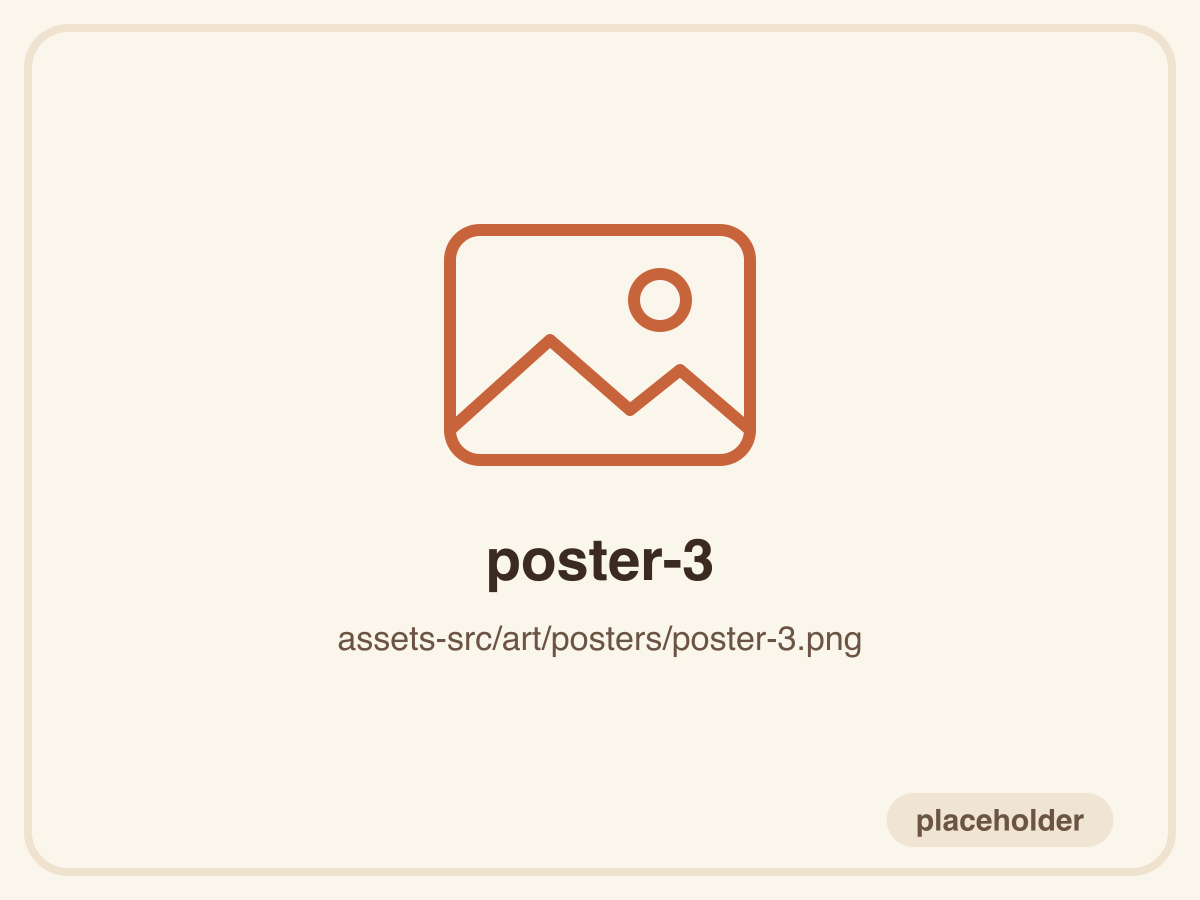
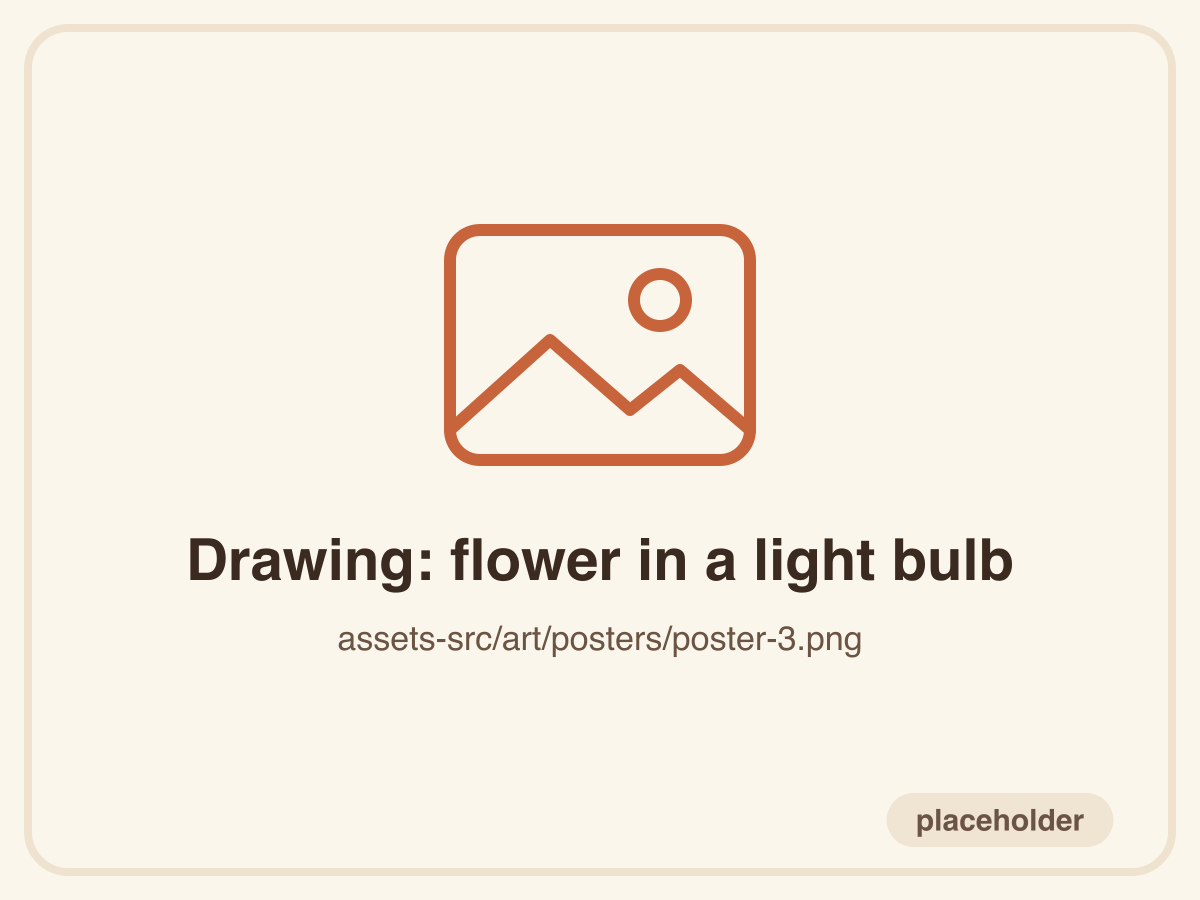
Add the owner's paintings, designs and photos
- Posters: three paintings (lemons, watercolour forest, ink flower in a
  light bulb), cropped to the artwork from the owner's phone photos; the
  4th frame's pin is disabled. Descriptive working titles and alt text;
  stories, years and materials stay PLACEHOLDER for the owner.
- Sketchbook: five graphic design projects (Bin Cosmetics ad, April
  2024 poster, Travelia brochure and magazine ad, LYRIC cover), PDFs
  rendered at 3000px; title and intro redrafted for design work.
- Shawn Mendes poster: the owner's concert photo (full, as requested).
- Fridge magnet: the owner's Sofia cathedral photo (500x400, as given).
- All files re-encoded without EXIF/XMP (no location data was present).
- Removed unused drawing/wall-poster placeholders; the lightbox e2e test
  now reads the gallery size from content.

Local QA: typecheck, lint, 41 unit tests, 56 e2e (2 device skips) pass;
close-ups checked in screenshots.

Changed region(s): [[0.1542, 0.5911, 0.8633, 0.6533]]

diff --git a/tests/e2e/closeup.spec.ts b/tests/e2e/closeup.spec.ts
@@ -16,6 +16,12 @@ type RoomJson = {
 const rooms = [front, livingRoom, bedroom, kitchen] as RoomJson[];
 const roomPath = (id: string) => (id === 'front' ? './' : `./${id}`);
 const closeUp = (page: Page) => page.getByTestId('closeup');
+/** Number of items in the sketchbook gallery, straight from the content file. */
+const sketchbookCount = (
+  livingRoom.objects
+    .find((o) => o.id === 'sketchbook')!
+    .blocks.find((b) => b.type === 'gallery') as { items: unknown[] }
+).items.length;
 
 async function waitForRoom(page: Page, roomId: string) {
   await expect(page.locator(`main [data-room="${roomId}"]`)).toHaveCount(1);
@@ -123,9 +129,9 @@ test('images open in a lightbox that Esc closes, returning to the close-up', asy
     .click();
   const lightbox = page.locator('dialog[open]');
   await expect(lightbox).toBeVisible();
-  await expect(lightbox.locator('figcaption')).toContainText('2 of 4');
+  await expect(lightbox.locator('figcaption')).toContainText(`2 of ${sketchbookCount}`);
   await page.keyboard.press('ArrowRight');
-  await expect(lightbox.locator('figcaption')).toContainText('3 of 4');
+  await expect(lightbox.locator('figcaption')).toContainText(`3 of ${sketchbookCount}`);
 
   await page.keyboard.press('Escape');
   await expect(lightbox).toBeHidden();
